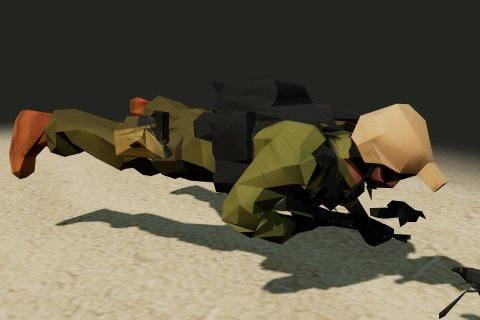
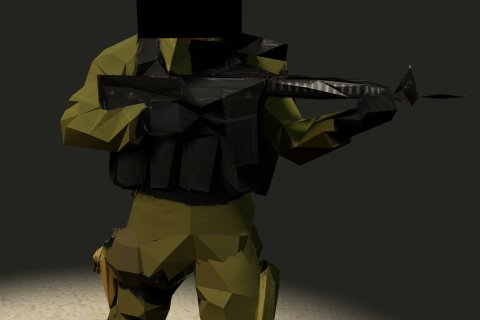
store: infantry teams stand on the turntable (GH-921)
The store posed every team from frame 0 of `idle`, which for sniper_team is the
prone hide (rig._sniper_rest keeps the living prone build on snp_*_death_root
for idle/fire). The garage now chooses its own clip per type, `showroomClip`,
and sniper_team takes `move` frame 0: the standing build, rifle carried. The
field reads the clip table in units/, never this one, so field behaviour is
untouched.

Census (art/meshes, every team, shown-figure height at the store clip): the
sniper pair was the only prone one (0.72 m). Eight teams kneel at their
deployed weapon (mortar_team, mortar_crew, atgm_cell, recoilless_team,
at_nlos_team, digger_crew, manpad_team, officer_fires) and are named as
exemptions with a demotion assertion rather than changed: `move` packs the
tube away.

garage-pose.shipped.test.ts measures that census. Falsified: commenting out the
sniper_team entry reads 0.72 m and three tests go red. The three sniper_team
close-up JPEGs and the manifest are regenerated (one Metal run,
closeups:garage --only=sniper_team, port 5241), since the framing follows
the pose.

diff --git a/packages/render/src/three/garage/garage-pose.shipped.test.ts b/packages/render/src/three/garage/garage-pose.shipped.test.ts
@@ -1,0 +1,93 @@
+/**
+ * The store stands its teams up (GH-921): every shipped infantry GLB, posed
+ * exactly as the garage poses it (`poseRigged` from `showroomClip(id)`), must
+ * show NO figure lying down, and a figure that stands must stand.
+ *
+ * Measured, not asserted of a table: the height of each shown figure's
+ * visible points, so a rig change that puts a prone build back under the
+ * chosen clip fails here whatever `SHOWROOM_CLIP` says.
+ *
+ * Falsified: deleting the `sniper_team` entry from `SHOWROOM_CLIP` makes the
+ * sniper's pair read 0.72 m (prone, `idle`) and the first test goes red.
+ */
+import { readFileSync, readdirSync } from 'node:fs';
+import * as THREE from 'three';
+import { describe, expect, it } from 'vitest';
+import { parseGlbHeadless } from '../units/headless-gltf';
+import { SHOWROOM_CLIP, bonesOf, livingFigureRoots, poseRigged, showroomClip, visiblePoints } from './garage-pose';
+
+const DIR = new URL('../../../../../art/meshes/', import.meta.url);
+
+/** Not store cards: the casualty rigs and the robot dog (four legs). */
+const NOT_A_STANDING_TEAM = /^(wounded_|ugv_)/;
+/** A bone that is gear, not a figure. */
+const GEAR = /^(prop|ground)$/;
+
+/** A figure at least this tall (metres, visible points) is standing. The
+ *  shortest standing figure measured is 1.45 m (a charge squad's `move`
+ *  walker), the tallest kneeler 1.31 m, the prone sniper 0.72 m. */
+const STANDING_MIN = 1.4;
+/** Below this a figure is lying down. */
+const PRONE_MAX = 1.0;
+
+/**
+ * Teams whose store pose is a KNEEL at the deployed weapon, deliberately: the
+ * crew-served weapon is the card (`move` would pack the tube away). Each
+ * carries a demotion assertion below -- when one of these stands, delete it
+ * from here. Adding a name here is a design call for the lead, not a fix.
+ */
+const KNEELS_AT_ITS_WEAPON: ReadonlySet<string> = new Set([
+  'at_nlos_team',
+  'atgm_cell',
+  'digger_crew',
+  'manpad_team',
+  'mortar_crew',
+  'mortar_team',
+  'officer_fires',
+  'recoilless_team',
+]);
+
+const teams = readdirSync(DIR)
+  .filter((n) => n.endsWith('.glb') && !NOT_A_STANDING_TEAM.test(n))
+  .map((n) => n.replace(/\.glb$/, ''));
+
+async function storeFigureHeights(id: string): Promise<number[]> {
+  const g = await parseGlbHeadless(readFileSync(new URL(`${id}.glb`, DIR)));
+  const clip = g.animations.find((a) => a.name === showroomClip(id)) ?? null;
+  expect(clip, `${id} has no '${showroomClip(id)}' clip`).not.toBeNull();
+  poseRigged(g.scene, { showcase: null, idle: clip });
+  g.scene.updateMatrixWorld(true);
+  const figures = livingFigureRoots(bonesOf(g.scene)).filter((b) => !GEAR.test(b.name));
+  expect(figures.length, `${id}: no figure shown`).toBeGreaterThan(0);
+  const { points, owner } = visiblePoints(g.scene, figures, 1500);
+  return figures.map((_, i) => {
+    const ys = points.filter((_p: THREE.Vector3, k: number) => owner[k] === i).map((v) => v.y);
+    expect(ys.length, `${id}: figure ${i} drew nothing`).toBeGreaterThan(0);
+    return Math.max(...ys) - Math.min(...ys);
+  });
+}
+
+describe('the store pose of every infantry team (GH-921)', () => {
+  it('finds the teams (a vacuous census would pass everything)', () => {
+    expect(teams.length).toBeGreaterThanOrEqual(20);
+    expect(teams).toContain('sniper_team');
+  });
+
+  it.each(teams)('%s: no figure lies down', async (id) => {
+    for (const h of await storeFigureHeights(id)) expect(h).toBeGreaterThan(PRONE_MAX);
+  });
+
+  it.each(teams.filter((id) => !KNEELS_AT_ITS_WEAPON.has(id)))('%s: every figure stands', async (id) => {
+    for (const h of await storeFigureHeights(id)) expect(h).toBeGreaterThan(STANDING_MIN);
+  });
+
+  it.each([...KNEELS_AT_ITS_WEAPON])('%s: still kneels (else delete it from the exemption)', async (id) => {
+    const hs = await storeFigureHeights(id);
+    expect(Math.min(...hs)).toBeLessThan(STANDING_MIN);
+  });
+
+  it('the sniper is the one team on a non-idle store clip (the field clip table is untouched)', async () => {
+    expect(SHOWROOM_CLIP['sniper_team']).toBe('move');
+    expect(showroomClip('mortar_team')).toBe('idle');
+  });
+});

diff --git a/packages/render/src/three/garage/garage-pose.ts b/packages/render/src/three/garage/garage-pose.ts
@@ -9,7 +9,9 @@
  *    for the kit and Meshy-cut teams, the Meshy importers for the skinned
  *    riflemen), so the mesh gates can check it. No shipped GLB carries one
  *    yet; see "The bake is a follow-up" below.
- * 2. **`idle` at frame 0**, which every shipped team and vehicle has. It is
+ * 2. **`idle` at frame 0** (or the clip `showroomClip` names -- `move` for
+ *    the sniper, whose idle is the prone hide, GH-921), which every shipped
+ *    team and vehicle has. It is
  *    applied even where the rest geometry is already the posture, because
  *    only the clip's scale keys hide the prone death rig and the crew walker
  *    (`rig.py`'s `_key_death_visibility`): the bind pose alone draws the
@@ -47,6 +49,34 @@ export const SHOWCASE_CLIP = 'showcase';
  *  approved mock's low ready. Negative pitches the hands DOWN and forward. */
 export const READY_DROP_DEG = -90;
 
+/**
+ * The clip whose FRAME 0 a team stands in on the store's turntable, where it
+ * is not `idle` (GH-921). Keyed by unit type id; absent means `idle`.
+ *
+ * `idle` is the FIELD posture, and for `sniper_team` it is the prone hide:
+ * `rig._sniper_rest` keeps the living prone build on `snp_*_death_root` for
+ * `idle`/`fire`, and the standing build on `snp_*_root` for `move` alone. In
+ * the field that is right (firing shows the hide); on a showroom turntable the
+ * lead wants the team standing. `move` frame 0 is the standing build with
+ * the rifle carried, which `rig.py` already authors and gates, so this is a
+ * CHOICE of existing clip and no new art. It reaches only the garage: the
+ * field reads the clip table in `units/`, never this one.
+ *
+ * Only the prone team is listed. The kneeling crews (mortar, ATGM, recoilless,
+ * NLOS, digger, the MANPAD spotter, the fires officer's observer) also
+ * kneel at `idle`, but there the kneel IS the deployed weapon -- `move` packs
+ * the tube away (`prop` is hidden) -- so each is a separate decision, and
+ * `garage-pose.test.ts` names them as the exemptions to the standing pin.
+ */
+export const SHOWROOM_CLIP: Readonly<Record<string, 'move'>> = {
+  sniper_team: 'move',
+};
+
+/** The clip the store poses `typeId` from; `idle` unless `SHOWROOM_CLIP` says otherwise. */
+export function showroomClip(typeId: string): 'idle' | 'move' {
+  return SHOWROOM_CLIP[typeId] ?? 'idle';
+}
+
 /** Which of the three paths above posed this unit, for the report line. */
 export type PoseSource = 'showcase' | 'idle0' | 'idle0+ready' | 'bind';
 
@@ -82,9 +112,10 @@ export function bonesOf(root: THREE.Object3D): THREE.Bone[] {
  * to scale 0 by `idle` frame 0 and is not a figure.
  *
  * The NAME is only a tie-breaker, and not a filter, because one shipped rig
- * inverts it: `sniper_team` lies prone, so its living figures are the bones
- * named `snp_*_death_root` (scale 1 at idle) while `snp_*_root` is the one
- * scaled to nothing. So a shown bone named for death or walking is dropped
+ * inverts it: `sniper_team` lies prone at `idle`, so its living figures there
+ * are the bones named `snp_*_death_root` (scale 1) while `snp_*_root` is the
+ * one scaled to nothing. (The store poses it from `move` now, GH-921, where
+ * `snp_*_root` is the shown one; the rule holds for either clip.) So a shown bone named for death or walking is dropped
  * only when some OTHER shown bone is not -- which also covers a rig posed
  * from its bind pose, where every root is shown.
  */
@@ -188,6 +219,8 @@ export function applyReadyPose(
  */
 export function poseRigged(
   root: THREE.Object3D,
+  // `idle` is whichever clip the store poses from (`showroomClip`): `idle`
+  // for nearly every team, `move` for the sniper. Named for the common case.
   clips: { readonly showcase: THREE.AnimationClip | null; readonly idle: THREE.AnimationClip | null }
 ): { source: PoseSource; mixer: THREE.AnimationMixer } {
   const bones = bonesOf(root);

diff --git a/packages/render/src/three/garage/garage-focus.ts b/packages/render/src/three/garage/garage-focus.ts
@@ -27,8 +27,8 @@
  *   the head and optics: every triangle on the figure's own head bone
  *   (`HEAD_BONE`: the face, the helmet, goggles and anything clipped to
  *   them), plus any `glass`. A figure drawn with no head bone -- the sniper
- *   pair's showcase is their PRONE death geometry, bound rigidly to one
- *   root -- takes everything within `HEAD_REACH` of its own `face` instead,
+ *   pair's showcase WAS their PRONE death geometry (before GH-921 stood them
+ *   up), bound rigidly to one root; a prone figure still -- takes everything within `HEAD_REACH` of its own `face` instead,
  *   and a figure with neither falls back to `HEAD_BAND` of its height. Not
  *   height first, because the top fifth of a man lying down is his pack,
  *   which is what the first run framed; and not the face first, because a

diff --git a/packages/render/src/three/garage/garage-view.ts b/packages/render/src/three/garage/garage-view.ts
@@ -112,6 +112,7 @@ import {
   livingFigureRoots,
   poseRigged,
   respaceLine,
+  showroomClip,
   splitShowcase,
   visiblePoints,
   type PoseSource,
@@ -354,7 +355,11 @@ function stageRigged(gltf: { scene: THREE.Group; animations: THREE.AnimationClip
       m.receiveShadow = true;
       m.frustumCulled = false;
     });
-    const { source, mixer } = poseRigged(rig, { showcase, idle: tpl.clips.get('idle') ?? null });
+    const { source, mixer } = poseRigged(rig, {
+      showcase,
+      // The store's clip, not the field's (GH-921): `showroomClip` is `idle` for all but the sniper.
+      idle: tpl.clips.get(showroomClip(opts.typeId)) ?? tpl.clips.get('idle') ?? null,
+    });
     const figures = lineOrder(livingFigureRoots(bonesOf(rig)));
     if (figures.length > 1) {
       if (spacing === 0) {
